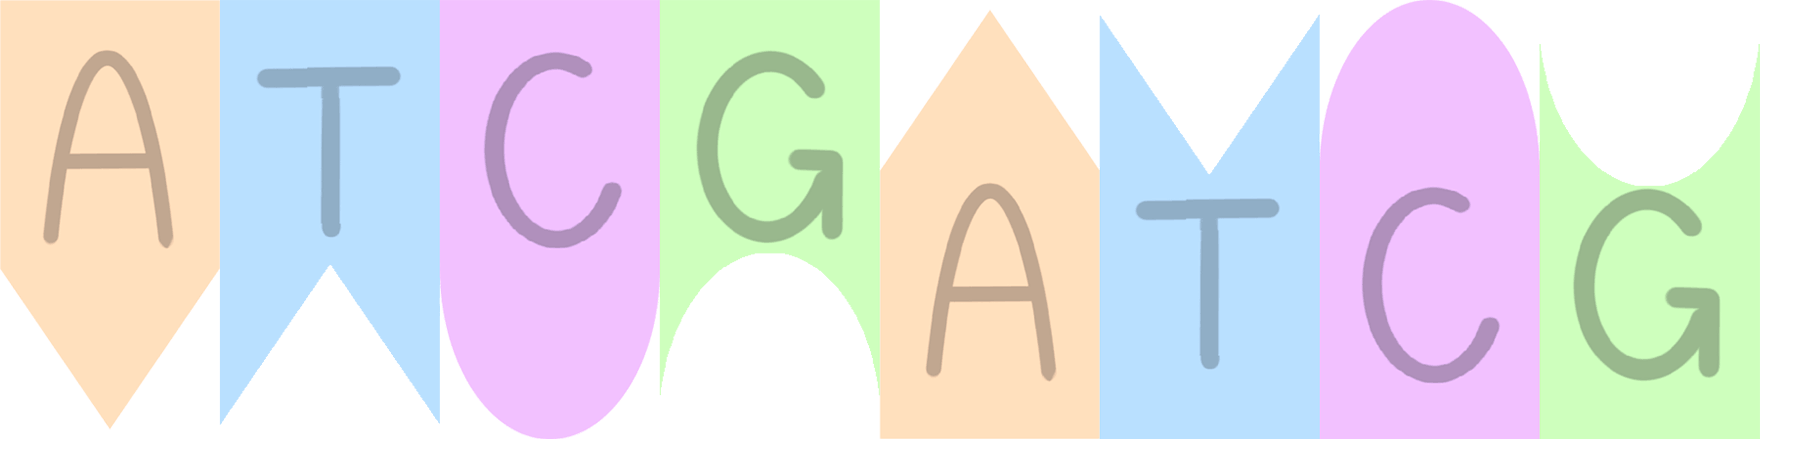
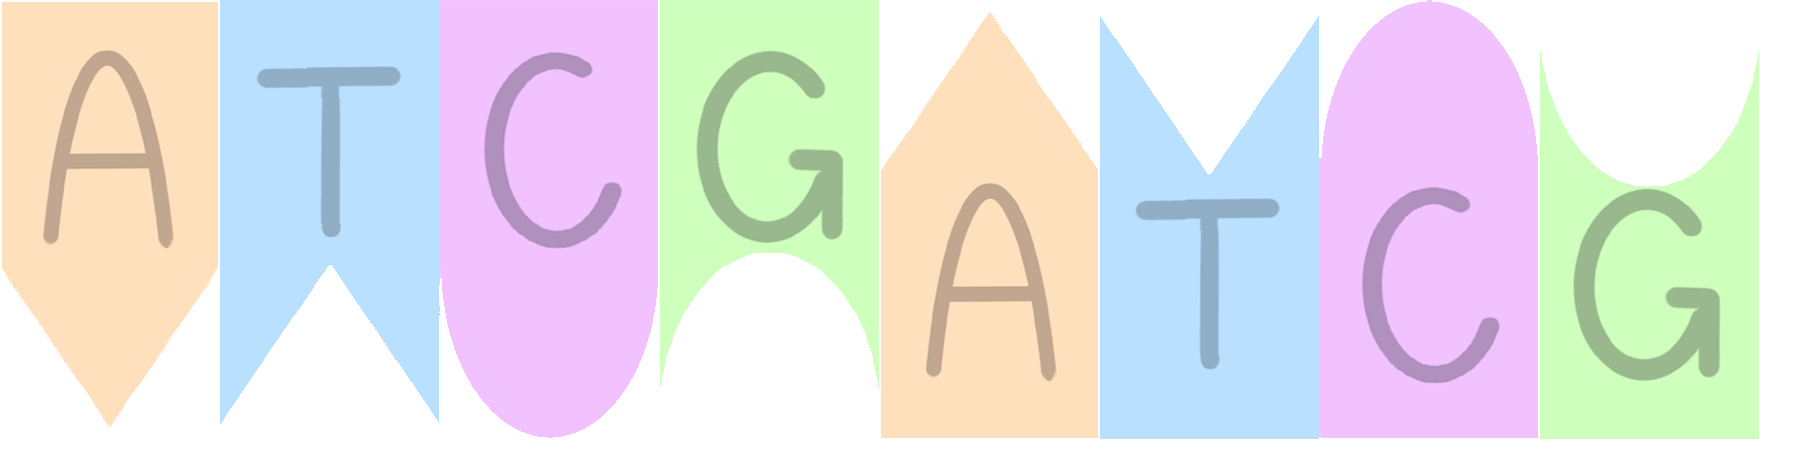
stage1 back ground and modify step3

Changed region(s): [[0.0, 0.0, 0.1237, 0.0303], [0.7731, 0.0, 0.804, 0.0303]]

diff --git a/js/stage1/pcr.js b/js/stage1/pcr.js
@@ -1,5 +1,5 @@
 function preload_stage1_pcr(){
-    this.load.image('background', 'img/stage1/background.png');//載入一般圖片
+    this.load.image('background', 'img/stage1/step_3_background.jpg');//載入一般圖片
     load_transition(this);
     this.load.image('back', 'img/main/back.png');
     for(var i=0;i<18;i++){
@@ -77,11 +77,13 @@ function create_stage1_pcr (){
     }
     //send_string是前面送來的序列
     var frames = this.textures.get('gene').getFrameNames();
-    var x = 0.2*width;
-    var y = 0.2*width;
-    var x2 = 0.07*width;
-    var y2 = 0.55*width;
     var len = level+2;
+    var goal_each_spacing=90*width/800;
+    var move_each_spacing=0.15*width;
+    var x = (width-((len-1)*goal_each_spacing)-0.05*width)/2;
+    var y = 0.2*width;
+    var x2 = 0.17*width;
+    var y2 = 0.58*width;
     var gene_goal=[];
     var gene_move=[];
     var final_x,final_y;
@@ -89,43 +91,36 @@ function create_stage1_pcr (){
     var correct=0;
     var input_string=[];
     var game_end=0;
-    var move_string=['A','T','C','G'];
-    send_string=['A','T','C','G','A'];
+    var move_string=['T','A','G','C'];
+    if(debug==1){
+        send_string=['A','T','C','G','A'];
+    }
     for(var i=0;i<len;i++){
         input_string[i]='N';
-        move_string[i+4]=send_string[i];
-    }
-    for(var i=0;i<len+4;i++){
-        var temp=move_string[i];
-        var rnd=Math.floor(Math.random() * (len+4));
-        move_string[i]=move_string[rnd];
-        move_string[rnd]=temp;
     }
     for (var i = 0; i < len; i++){
-        gene_goal[i] = this.physics.add.sprite(x, y, 'gene').setInteractive().setDisplaySize(0.1*width,0.3*height);
+        gene_goal[i] = this.physics.add.sprite(x+goal_each_spacing*i, y, 'gene').setInteractive().setDisplaySize(0.1*width,0.3*height);
         gene_goal[i].anims.play(send_string[i]+"u");
         //this.input.setDraggable(image);
-        x += 90*width/800;
     }
-    for (var i = 0; i < len+4; i++){
-        gene_move[i] = this.physics.add.sprite(x2, y2, 'gene').setInteractive().setDisplaySize(0.1*width,0.3*height);
+    for (var i = 0; i < 4; i++){
+        gene_move[i] = this.physics.add.sprite(x2+move_each_spacing*i, y2, 'gene').setInteractive().setDisplaySize(0.1*width,0.3*height);
         var temp="";
-        switch(move_string[i]){
-            case 'A':
-                temp="Td";
-                break;
-            case 'T':
+        switch(i){
+            case 0:
                 temp="Ad";
                 break;
-            case 'C':
-                temp="Gd";
+            case 1:
+                temp="Td";
                 break;
-            case 'G':
+            case 2:
                 temp="Cd";
+                break;
+            case 3:
+                temp="Gd";
                 break;
         }gene_move[i].anims.play(temp);
         this.input.setDraggable(gene_move[i]);
-        x2 += 0.105*width;
     }
     // this.input.topOnly = true;//只抓最上面的
     this.input.on('drag', function (pointer, gameObject, dragX, dragY) {
@@ -134,7 +129,6 @@ function create_stage1_pcr (){
         final_x = dragX;
         final_y = dragY;
         final_object=gameObject;
-        
     });
     this.input.on('pointerdown', function (pointer, gameObject, dragX, dragY) {
         // console.log(gameObject);
@@ -142,6 +136,7 @@ function create_stage1_pcr (){
         // console.log(dragY);
         // console.log(input_string);
     });
+    var space=this;
     this.input.on('pointerup', function (pointer) {
         if(game_end==1){
             load_page(map_1);
@@ -164,7 +159,7 @@ function create_stage1_pcr (){
                     status=0;
                 }
                 if(status==0){
-                    final_object.x=0.07*width+(0.105*width*i);
+                    final_object.x=x2+(move_each_spacing*i);
                     final_object.y=y2;
                     //input_string[i]='N';
                 }else{
@@ -173,6 +168,23 @@ function create_stage1_pcr (){
                     final_object.y=gene_goal[temp].y+(0.16*height);
                     input_string[temp]=move_string[i];
                     this.setDraggable(final_object,false);
+                    gene_move[i]=space.physics.add.sprite(x2+move_each_spacing*i, y2, 'gene').setInteractive().setDisplaySize(0,0);
+                    var temp="";
+                    switch(i){
+                        case 0:
+                            temp="Ad";
+                            break;
+                        case 1:
+                            temp="Td";
+                            break;
+                        case 2:
+                            temp="Cd";
+                            break;
+                        case 3:
+                            temp="Gd";
+                            break;
+                    }gene_move[i].anims.play(temp);
+                    bigger(gene_move[i],1);
                 }
                 final_object=0;
                 //console.log(i,temp);
@@ -186,6 +198,16 @@ function create_stage1_pcr (){
         //console.log(input_string);
         //alert(status);
     });
+    function bigger(object,count){
+        object.setDisplaySize(count*0.0025*width,count*0.0075*height);
+        if(count==40){
+            space.input.setDraggable(object);
+            return ;
+        }
+        setTimeout(function(){
+            bigger(object,count+1);
+        },13);
+    }
     var end=this.physics.add.staticGroup();
     var count=0;
     var last_one=null;

diff --git a/js/stage1/sequence.js b/js/stage1/sequence.js
@@ -1,5 +1,5 @@
 function preload_stage1_sequence(){
-    this.load.image('background', 'img/stage1/background.png');//載入一般圖片
+    this.load.image('background', 'img/stage1/step_2_background.jpg');//載入一般圖片
     load_transition(this);
     this.load.image('back', 'img/main/back.png');
     this.load.spritesheet('check',
@@ -31,9 +31,9 @@ function create_stage1_sequence (){
     var len=level+2;
     codon=["","","","",""];
     for(var i=len-1;i>=0;i--){
-        card[i] = this.physics.add.sprite(width*0.02+(width*0.50)/(len-1)*i, 80*height/600, 'card').setOrigin(0, 0).setInteractive().setDisplaySize(0.14*width*((13-len)/10),0.256*height*((13-len)/10));
+        card[i] = this.physics.add.sprite(width*(0.13-(len*0.02))+(width*0.04)*(8-len)*i, 80*height/600+0.0256*height, 'card').setOrigin(0, 0).setInteractive().setDisplaySize(0.14*width*((13-len)/10),0.256*height*((13-len)/10));
     }
-    check_button = this.physics.add.sprite(160*width/800, 265*height/600, 'check').setOrigin(0, 0).setInteractive();
+    check_button = this.physics.add.sprite(width*(0.13-(len*0.02))+((width*0.04)*(8-len)*(len-1)+0.256*height*((13-len)/10))/2, 265*height/600, 'check').setOrigin(0.55, 0).setInteractive().setDisplaySize(0.35*width,0.05*height);
     for(var i=3;i>=0;i--){
         button[i] = this.physics.add.sprite((70+120*i)*width/800, 330*height/600, 'card').setOrigin(0, 0).setInteractive().setScale(0.8);
     }
@@ -194,7 +194,7 @@ function create_stage1_sequence (){
         if(stack>id)stack=id;
     }
     // ans=['T', 'T', 'C', 'C'];
-    instruction=this.add.text(0.125*width, 0.7*height, '\nC: '+lan_text.correct+'\nM: '+lan_text.misplaced+'\nW: '+lan_text.wrong, { fontSize: '32px', fill: '#000000' });
+    instruction=this.add.text(0.26*width, 0.7*height, '\nC: '+lan_text.correct+'\nM: '+lan_text.misplaced+'\nW: '+lan_text.wrong, { fontFamily: 'fantasy', fontSize: '32px', fill: '#000000' });
     text=this.add.text(0.7*width, 150*height/600, '', { fontFamily: 'fantasy', fontSize: '32px', fill: '#111111' });
     condition=this.add.text(0.7*width, 55*height/600, '', { fontFamily: 'fantasy', fontSize: '48px', fill: '#000000' });
     

diff --git a/js/index.js b/js/index.js
@@ -9,7 +9,7 @@ var cval = document.cookie;
 document.cookie = document.cookie + ";expires=" + exp.toGMTString();
 */
 //alert(document.cookie);
-var debug=1;
+var debug=0;
 var anime;
 var stop=0;
 var set_width=1260;
@@ -48,6 +48,8 @@ script.src= languages;
 head.appendChild(script);
 function changeLang(input){
     language=input;
+    document.cookie='language='+input;
+    // alert(location.protocol+"//"+location.host+location.pathname+"?lang="+language);
     languages="./language/"+language+".js";
     head= document.getElementsByTagName('head')[0]; 
     script= document.createElement('script'); 
@@ -59,20 +61,21 @@ function changeLang(input){
     };
     script.src= languages;
     head.appendChild(script);
-    //location=location.protocol+"//"+location.host+location.pathname+"?lang="+language;
+    // location=location.protocol+"//"+location.host+location.pathname+"?lang="+language;
+    
 }
 function loadlanguage(){
     langLoadComplete=1;
     var language_set = document.getElementById("language_set");
     switch (language){
         case "en":
-            language_set[1].selected=true;
+            language_set[0].selected=true;
             break;
         case "zh-tw":
-            language_set[2].selected=true;
+            language_set[1].selected=true;
             break;
         case "zh-cn":
-            language_set[3].selected=true;
+            language_set[2].selected=true;
             break;
     }
     load();
@@ -156,6 +159,22 @@ function isMobileDevice(){
     // alert(isMobileDevice);
     return isMobileDevice;
 }
+
+function getcookie(text){
+    var content=document.cookie;
+    var i=content.indexOf(text, 0);
+    if(i==-1){
+        return null;
+    }
+    var begin=content.indexOf('=', i);
+    var len=content.indexOf(' ', begin);
+    if(len==-1){
+        len=content.length;
+    }
+    len-=begin;
+    return content.substr(begin+1,len);
+}
+// console.log(getcookie("language"));
 // function load_stage_1(){
 //     config = {
 //         type: Phaser.AUTO,

diff --git a/js/stage1/choose.js b/js/stage1/choose.js
@@ -1,5 +1,5 @@
 function preload_stage1_choose(){
-    this.load.image('background', 'img/stage1/background.png');//載入一般圖片
+    this.load.image('background', 'img/stage1/step_1_background.jpg');//載入一般圖片
     this.load.image('gene1', 'img/stage1/1.png');
     this.load.image('gene2', 'img/stage1/2.png');
     this.load.image('gene3', 'img/stage1/3.png');
@@ -13,7 +13,7 @@ var banner;
 var level_instruction;
 var banner_width=0;
 function create_stage1_choose (){
-    /*send_string="ATT";
+    /*send_string="AAA";
     level=1;
     load_page(stage_1_pcr);*/
     //轉場設定
@@ -24,7 +24,7 @@ function create_stage1_choose (){
     button=[];
     button[0] = this.physics.add.sprite(0.69*height*0.8+width*0.2, -0.0514*height*0.8+height*0.1, 'gene1').setOrigin(0, 0).setInteractive().setDisplaySize(0.357*height*0.8,0.357*height*0.8);
     button[1] = this.physics.add.sprite(0.3731*height*0.8+width*0.2, 0.2062*height*0.8+height*0.1, 'gene2').setOrigin(0, 0).setInteractive().setDisplaySize(0.427*height*0.8,0.427*height*0.8);
-    button[2] = this.physics.add.sprite(-0.066*height*0.8+width*0.2, 0.438*height*0.8+height*0.1, 'gene3').setOrigin(0, 0).setInteractive().setDisplaySize(0.6158*height*0.8,0.6158*height*0.8);
+    button[2] = this.physics.add.sprite(-0.0688*height*0.8+width*0.2, 0.4353*height*0.8+height*0.1, 'gene3').setOrigin(0, 0).setInteractive().setDisplaySize(0.620*height*0.8,0.620*height*0.8);
     button[0].on('pointerdown', function (){clickButton(1,this)},this);
     button[1].on('pointerdown', function (){clickButton(2,this)},this);
     button[2].on('pointerdown', function (){clickButton(3,this)},this);

diff --git a/index.html b/index.html
@@ -20,7 +20,7 @@
 </head>
 <body>
 <select id="language_set" onChange="changeLang(this.options[this.selectedIndex].value)">
-    <option value="#">please choose your language</option>
+    <!-- <option value="#">please choose your language</option> -->
     <option value="en">English</option>
     <option value="zh-tw">繁體中文</option>
     <option value="zh-cn">簡體中文</option>
